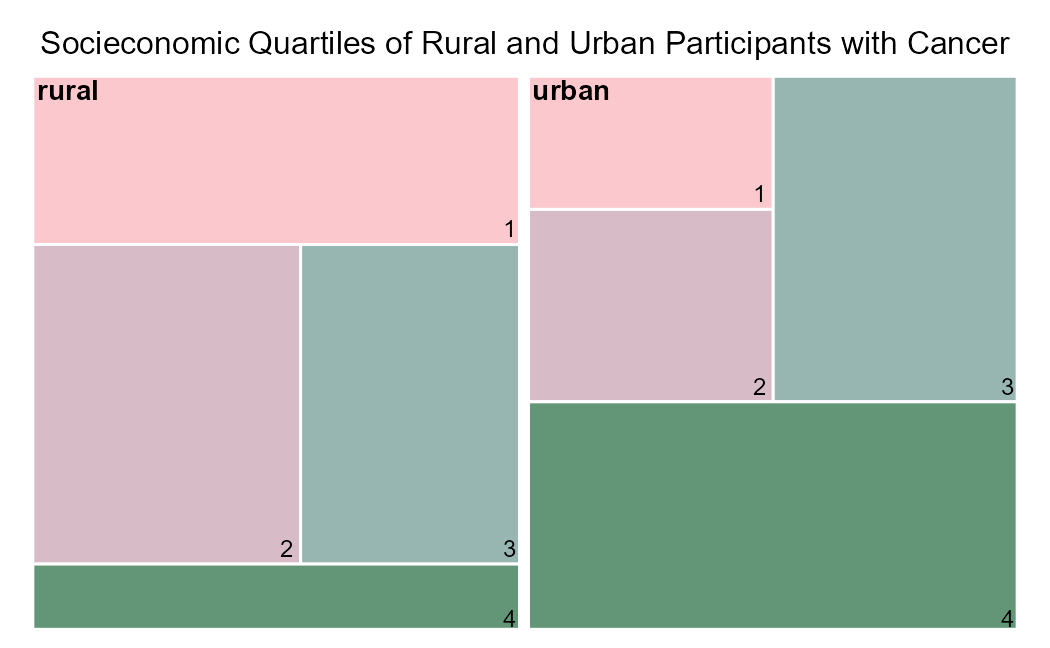
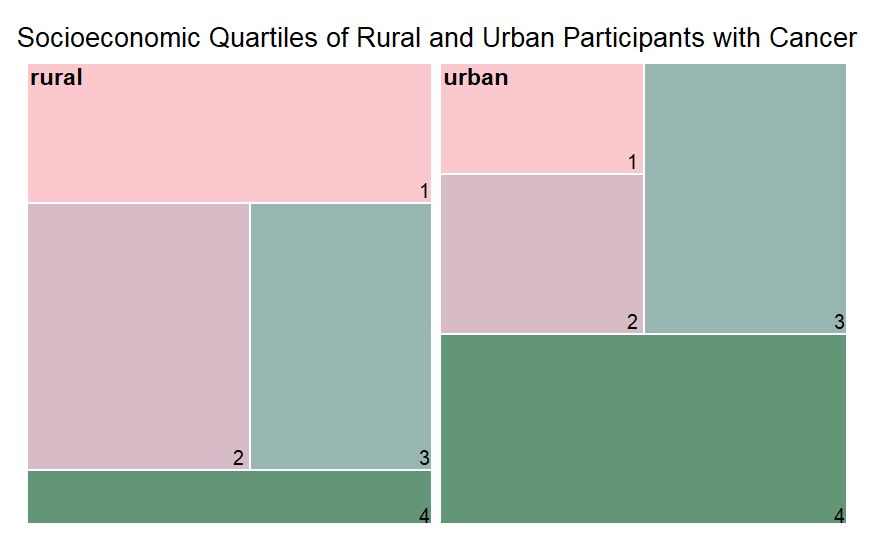
Update for March VOTM

diff --git a/2024-3/urban-rural-ses-quartiles.html b/2024-3/urban-rural-ses-quartiles.html
@@ -461,7 +461,7 @@ participants in quartile 1)</li>
 <span id="cb2-3"><a href="#cb2-3" tabindex="-1"></a>           <span class="at">vSize =</span><span class="st">&quot;value&quot;</span>,</span>
 <span id="cb2-4"><a href="#cb2-4" tabindex="-1"></a>           <span class="at">vColor =</span> <span class="st">&quot;color&quot;</span>,</span>
 <span id="cb2-5"><a href="#cb2-5" tabindex="-1"></a>           <span class="at">type =</span><span class="st">&quot;color&quot;</span>,</span>
-<span id="cb2-6"><a href="#cb2-6" tabindex="-1"></a>           <span class="at">title =</span> <span class="st">&quot;Socieconomic Quartiles of Rural and Urban Participants with Cancer&quot;</span>,</span>
+<span id="cb2-6"><a href="#cb2-6" tabindex="-1"></a>           <span class="at">title =</span> <span class="st">&quot;Socioeconomic Quartiles of Rural and Urban Participants with Cancer&quot;</span>,</span>
 <span id="cb2-7"><a href="#cb2-7" tabindex="-1"></a>           <span class="at">fontsize.title =</span> <span class="dv">16</span>,</span>
 <span id="cb2-8"><a href="#cb2-8" tabindex="-1"></a>           <span class="at">fontsize.labels =</span> <span class="fu">c</span>(<span class="dv">14</span>,<span class="dv">12</span>),</span>
 <span id="cb2-9"><a href="#cb2-9" tabindex="-1"></a>           <span class="at">border.col =</span> <span class="fu">c</span>(<span class="st">&quot;white&quot;</span>,<span class="st">&quot;white&quot;</span>),</span>

diff --git a/2024-3/README.md b/2024-3/README.md
@@ -28,7 +28,7 @@ ses_data %>%
            vSize ="value",
            vColor = "color",
            type ="color",
-           title = "Socieconomic Quartiles of Rural and Urban Participants with Cancer",
+           title = "Socioeconomic Quartiles of Rural and Urban Participants with Cancer",
            fontsize.title = 16,
            fontsize.labels = c(14,12),
            border.col = c("white","white"),
